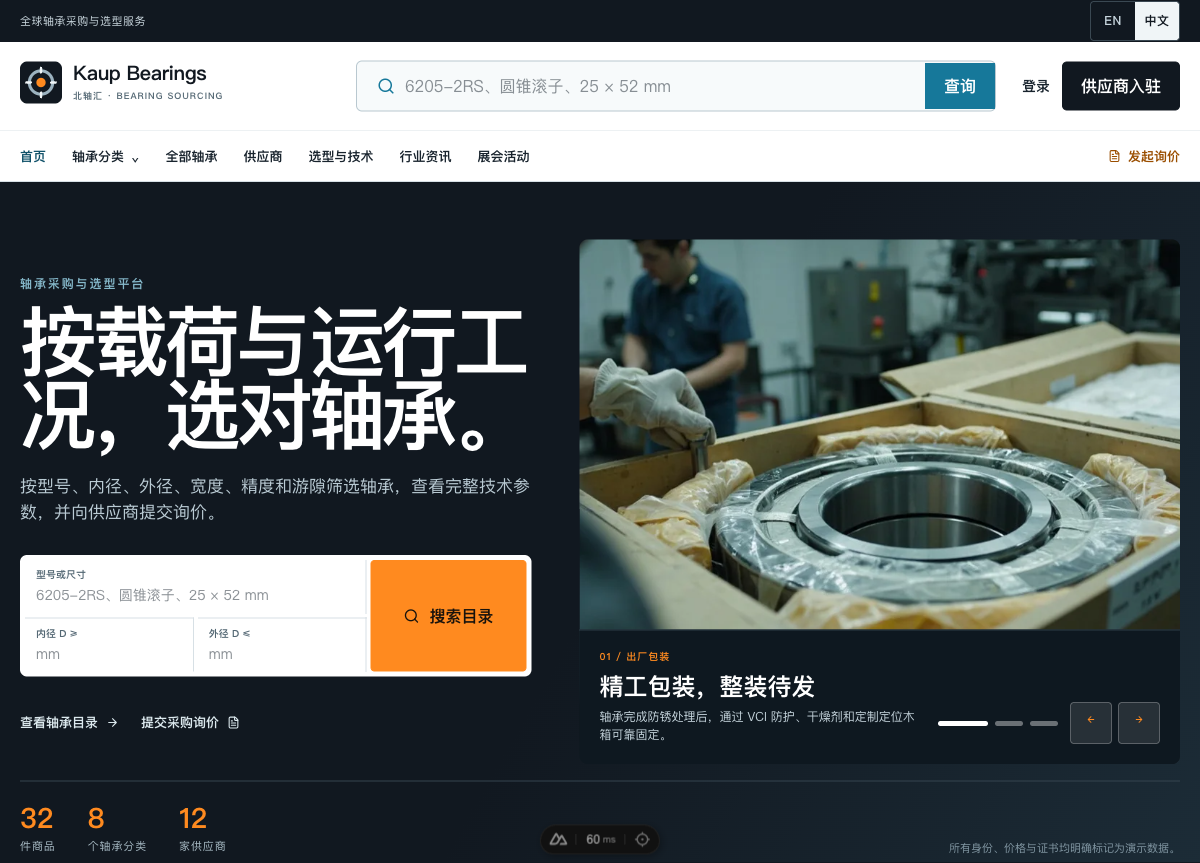
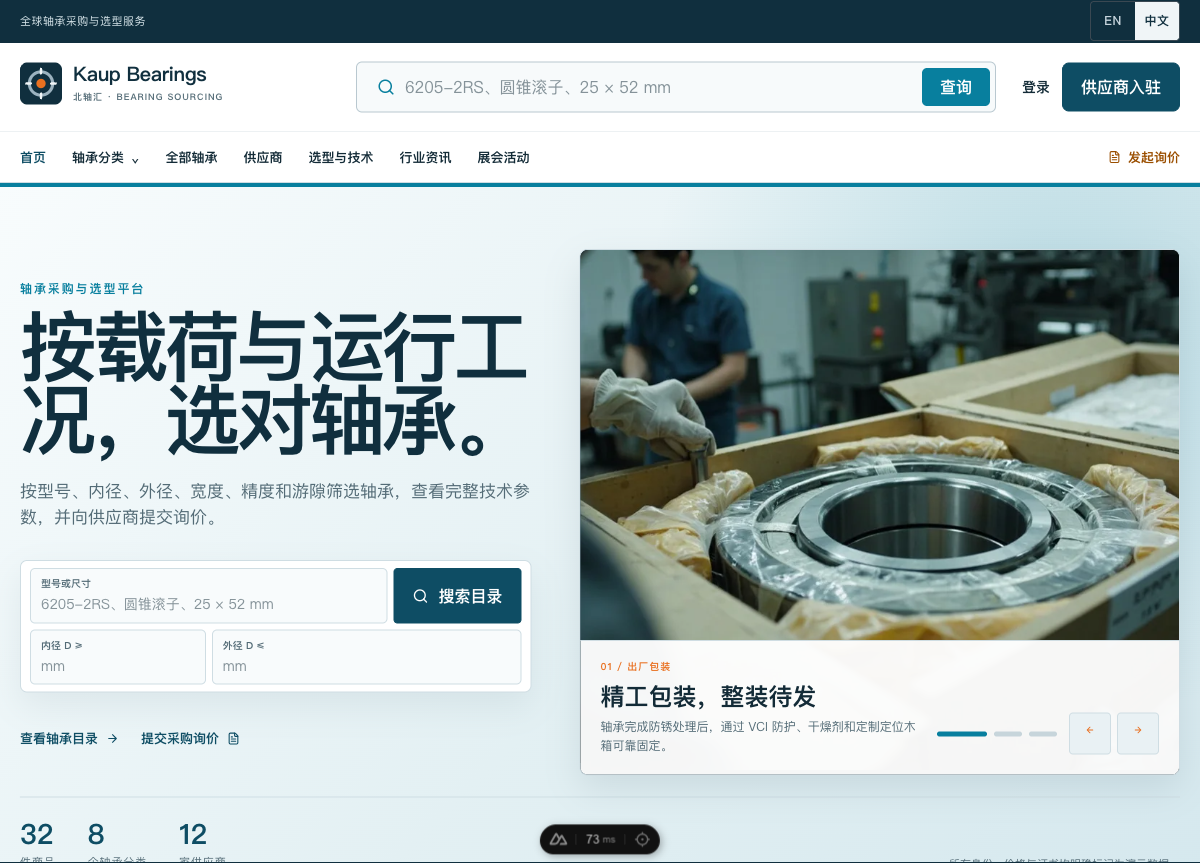
fix: refine homepage and header interactions

diff --git a/app/pages/index.vue b/app/pages/index.vue
@@ -14,6 +14,10 @@ const query = ref('')
 const bore = ref('')
 const outside = ref('')
 const activeHero = ref(0)
+const heroPausedByUser = ref(false)
+const heroPausedByInteraction = ref(false)
+const heroReducedMotion = ref(false)
+let heroTimer: ReturnType<typeof setInterval> | undefined
 
 const heroSlides = computed(() =>
   locale.value === 'zh'
@@ -62,6 +66,42 @@ const heroSlides = computed(() =>
 function moveHero(direction: -1 | 1) {
   activeHero.value = (activeHero.value + direction + heroSlides.value.length) % heroSlides.value.length
 }
+
+const heroAutoPlaying = computed(
+  () => !heroPausedByUser.value && !heroPausedByInteraction.value && !heroReducedMotion.value,
+)
+
+function syncHeroAutoplay() {
+  if (heroTimer) clearInterval(heroTimer)
+  heroTimer = undefined
+  if (!heroAutoPlaying.value) return
+  heroTimer = setInterval(() => moveHero(1), 5000)
+}
+
+function selectHero(index: number) {
+  activeHero.value = index
+  syncHeroAutoplay()
+}
+
+function releaseHeroFocus(event: FocusEvent) {
+  const region = event.currentTarget as HTMLElement | null
+  const next = event.relatedTarget as Node | null
+  if (!region?.contains(next)) heroPausedByInteraction.value = false
+}
+
+onMounted(() => {
+  const motionQuery = window.matchMedia('(prefers-reduced-motion: reduce)')
+  heroReducedMotion.value = motionQuery.matches
+  motionQuery.addEventListener('change', (event) => {
+    heroReducedMotion.value = event.matches
+  })
+  syncHeroAutoplay()
+})
+
+watch([heroPausedByUser, heroPausedByInteraction, heroReducedMotion], syncHeroAutoplay)
+onBeforeUnmount(() => {
+  if (heroTimer) clearInterval(heroTimer)
+})
 
 const title = computed(() =>
   locale.value === 'zh'
@@ -150,7 +190,7 @@ const homeEvents = exhibitions.slice(0, 2)
             </label>
             <button class="kb-button hero-search-submit" type="submit">
               <UIcon name="i-lucide-search" aria-hidden="true" />
-              {{ locale === 'zh' ? '搜索目录' : 'Search catalogue' }}
+              {{ locale === 'zh' ? '搜索' : 'Search' }}
             </button>
           </form>
           <div class="hero-actions">
@@ -170,6 +210,10 @@ const homeEvents = exhibitions.slice(0, 2)
           tabindex="0"
           @keydown.left.prevent="moveHero(-1)"
           @keydown.right.prevent="moveHero(1)"
+          @mouseenter="heroPausedByInteraction = true"
+          @mouseleave="heroPausedByInteraction = false"
+          @focusin="heroPausedByInteraction = true"
+          @focusout="releaseHeroFocus"
         >
           <div class="hero-slides">
             <div
@@ -207,25 +251,19 @@ const homeEvents = exhibitions.slice(0, 2)
                   :aria-selected="index === activeHero"
                   :aria-label="slide.title"
                   :class="{ active: index === activeHero }"
-                  @click="activeHero = index"
+                  @click="selectHero(index)"
                 />
               </div>
-              <div class="hero-carousel-actions">
-                <button
-                  type="button"
-                  :aria-label="locale === 'zh' ? '上一张' : 'Previous slide'"
-                  @click="moveHero(-1)"
-                >
-                  <UIcon name="i-lucide-arrow-left" aria-hidden="true" />
-                </button>
-                <button
-                  type="button"
-                  :aria-label="locale === 'zh' ? '下一张' : 'Next slide'"
-                  @click="moveHero(1)"
-                >
-                  <UIcon name="i-lucide-arrow-right" aria-hidden="true" />
-                </button>
-              </div>
+              <button
+                type="button"
+                class="hero-autoplay"
+                :aria-label="heroPausedByUser
+                  ? (locale === 'zh' ? '继续自动轮播' : 'Resume automatic rotation')
+                  : (locale === 'zh' ? '暂停自动轮播' : 'Pause automatic rotation')"
+                @click="heroPausedByUser = !heroPausedByUser"
+              >
+                <UIcon :name="heroPausedByUser ? 'i-lucide-play' : 'i-lucide-pause'" aria-hidden="true" />
+              </button>
             </div>
           </div>
         </div>
@@ -429,10 +467,10 @@ h1 {
 }
 .hero-search {
   display: grid;
-  grid-template-columns: minmax(0, 1fr) minmax(0, 1fr) minmax(112px, auto);
-  gap: 4px;
+  grid-template-columns: repeat(6, minmax(0, 1fr));
+  gap: 6px;
   margin-top: 30px;
-  padding: 5px;
+  padding: 7px 9px;
   background: white;
   border: 1px solid var(--kb-line);
   border-radius: 7px;
@@ -450,23 +488,22 @@ h1 {
 .hero-search .hero-field {
   display: grid;
   gap: 2px;
-  padding: 7px 11px;
-  border-right: 1px solid var(--kb-line);
+  padding: 7px 10px;
+  background: #f8fbfc;
+  border: 1px solid var(--kb-line);
+  border-radius: 5px;
 }
 .hero-query {
-  grid-column: 1 / 3;
+  grid-column: 1 / 5;
+  grid-row: 1;
 }
 .hero-field:nth-of-type(2) {
-  grid-column: 1;
+  grid-column: 1 / 4;
   grid-row: 2;
 }
 .hero-field:nth-of-type(3) {
-  grid-column: 2;
+  grid-column: 4 / 7;
   grid-row: 2;
-}
-.hero-search .hero-field:nth-of-type(2),
-.hero-search .hero-field:nth-of-type(3) {
-  border-top: 1px solid var(--kb-line);
 }
 .hero-field span {
   color: var(--kb-muted);
@@ -487,11 +524,19 @@ h1 {
   border-radius: 4px;
 }
 .hero-search-submit {
-  grid-column: 3;
-  grid-row: 1 / 3;
-  justify-content: flex-start;
+  grid-column: 5 / 7;
+  grid-row: 1;
+  align-self: stretch;
+  justify-content: center;
   gap: 10px;
-  padding-inline: 32px;
+  padding-inline: 18px;
+  background: var(--kb-blue-deep);
+  border-color: var(--kb-blue-deep);
+  color: white;
+}
+.hero-search-submit:hover {
+  background: var(--kb-blue);
+  border-color: var(--kb-blue);
 }
 .hero-actions {
   display: flex;
@@ -565,37 +610,15 @@ h1 {
   line-height: 1.55;
   color: var(--kb-muted);
 }
-.hero-carousel-actions {
-  display: flex;
-  gap: 6px;
-}
-.hero-carousel-actions button {
-  display: grid;
-  width: 42px;
-  height: 42px;
-  place-items: center;
-  background: var(--kb-surface-soft);
-  border: 1px solid var(--kb-line);
-  border-radius: 4px;
-  color: var(--kb-blue-deep);
-}
-.hero-carousel-actions button:hover {
-  background: var(--kb-orange);
-  border-color: var(--kb-orange);
-}
-.hero-carousel-actions svg {
-  width: 17px;
-  height: 17px;
-}
 .hero-carousel-nav {
   display: flex;
-  gap: 12px;
+  gap: 10px;
   align-items: flex-end;
 }
 .hero-slide-dots {
   display: flex;
   gap: 7px;
-  padding-bottom: 18px;
+  padding-bottom: 10px;
 }
 .hero-slide-dots button {
   width: 28px;
@@ -608,6 +631,30 @@ h1 {
 .hero-slide-dots button.active {
   width: 50px;
   background: var(--kb-blue);
+}
+.hero-autoplay {
+  display: grid;
+  width: 36px;
+  height: 36px;
+  padding: 0;
+  place-items: center;
+  background: white;
+  border: 1px solid var(--kb-line);
+  border-radius: 50%;
+  color: var(--kb-blue-deep);
+  line-height: 1;
+}
+.hero-autoplay:hover {
+  border-color: var(--kb-blue);
+  background: var(--kb-surface-soft);
+}
+.hero-autoplay .iconify {
+  display: grid;
+  width: 16px;
+  height: 16px;
+  margin: auto;
+  place-items: center;
+  line-height: 1;
 }
 .hero-facts {
   display: grid;
@@ -867,8 +914,6 @@ h1 {
   .hero-search .hero-field {
     grid-column: 1;
     grid-row: auto;
-    border-right: 0;
-    border-bottom: 1px solid var(--kb-line);
   }
   .hero-search-submit {
     grid-column: 1;

diff --git a/app/components/AppHeader.vue b/app/components/AppHeader.vue
@@ -39,7 +39,7 @@ const isActive = (path: string) => route.path === path || route.path.endsWith(pa
           type="search"
           :placeholder="t('common.searchPlaceholder')"
         >
-        <button type="submit">{{ locale === 'zh' ? '查询' : 'Find' }}</button>
+        <button type="submit">{{ locale === 'zh' ? '搜索' : 'Search' }}</button>
       </form>
       <div class="header-actions">
         <NuxtLink v-if="!session" :to="localePath('/auth/buyer')" class="login-link">
@@ -167,11 +167,13 @@ const isActive = (path: string) => route.path === path || route.path.endsWith(pa
   box-shadow: none;
 }
 .model-search button {
-  min-height: 46px;
+  min-height: 38px;
+  margin: 4px 5px 4px 4px;
+  padding: 0 18px;
   border: 0;
+  border-radius: 5px;
   background: var(--kb-blue);
   color: white;
-  padding: 0 19px;
   font-weight: 700;
   cursor: pointer;
 }

diff --git a/app/components/AppLogo.vue b/app/components/AppLogo.vue
@@ -7,7 +7,7 @@
       <path d="M8 27h6M40 27h6M27 8v6M27 40v6" stroke="#f1f6f8" stroke-width="3" stroke-linecap="round" />
     </svg>
     <span>
-      <strong>Kaup Bearings</strong>
+      <strong>KAUP BEARINGS</strong>
       <small>北轴汇 · BEARING SOURCING</small>
     </span>
   </span>
@@ -27,9 +27,9 @@ svg {
 }
 strong {
   display: block;
-  font-size: 20px;
+  font-size: 18px;
   line-height: 1.05;
-  letter-spacing: -0.025em;
+  letter-spacing: 0.045em;
 }
 small {
   display: block;
